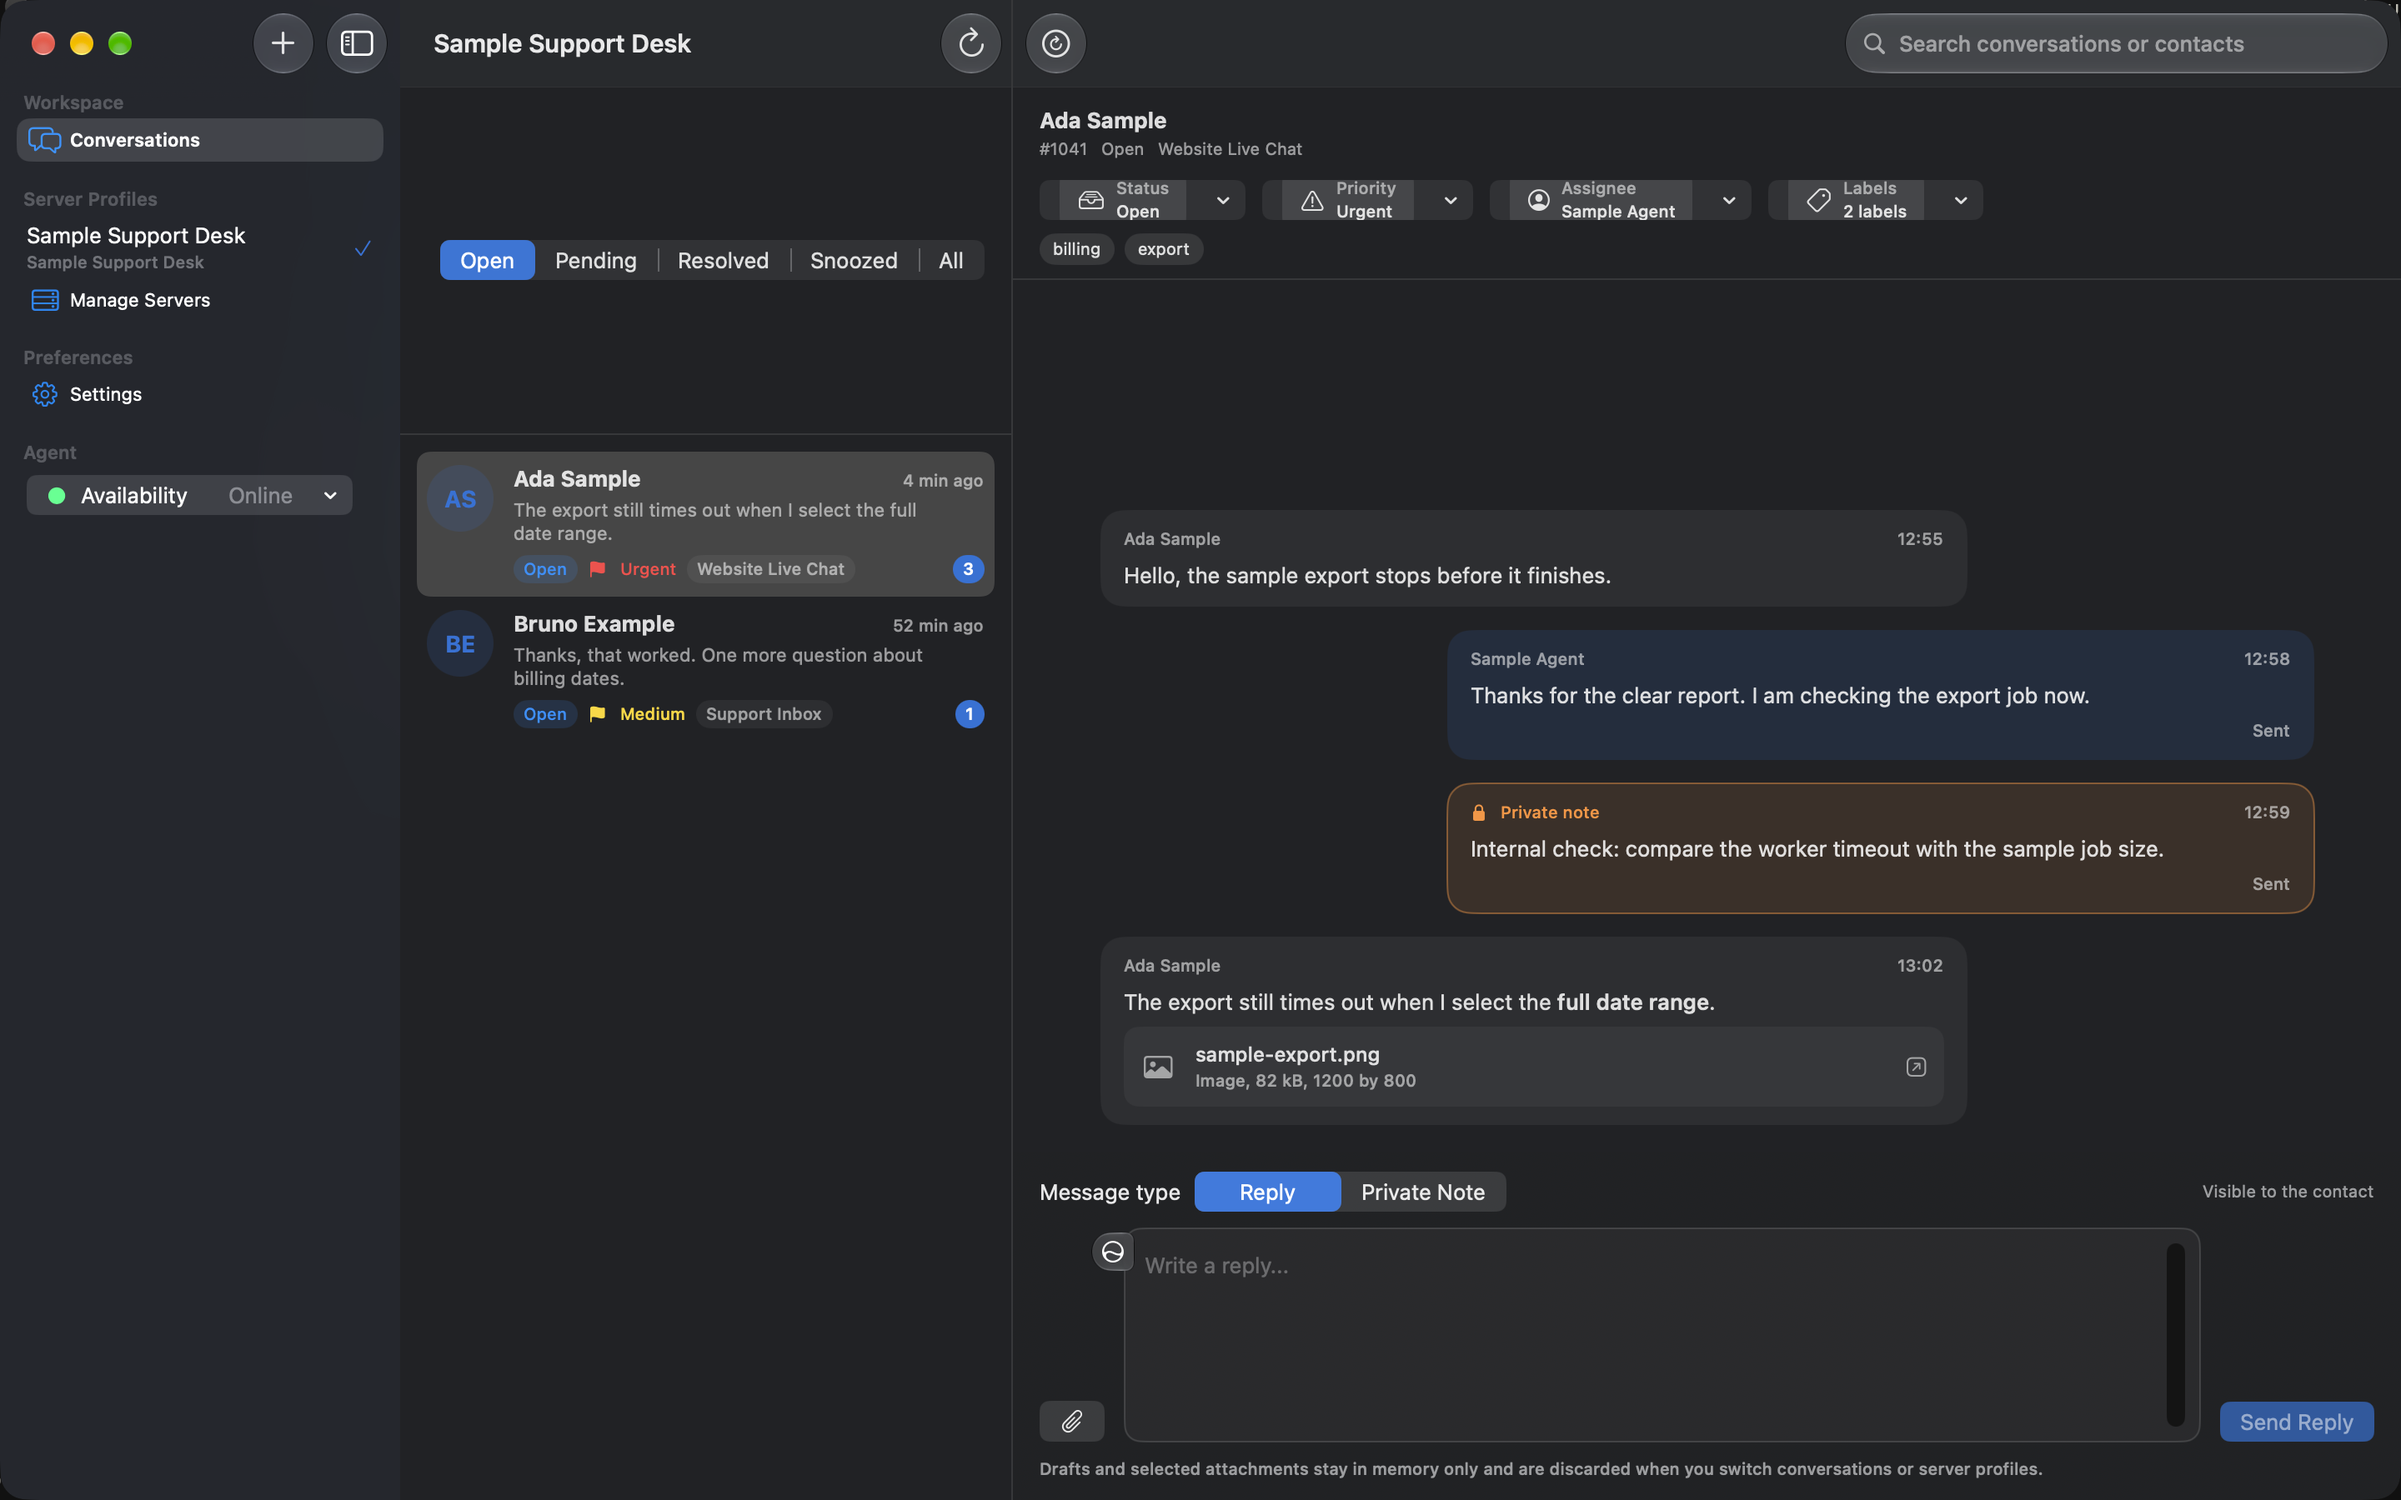
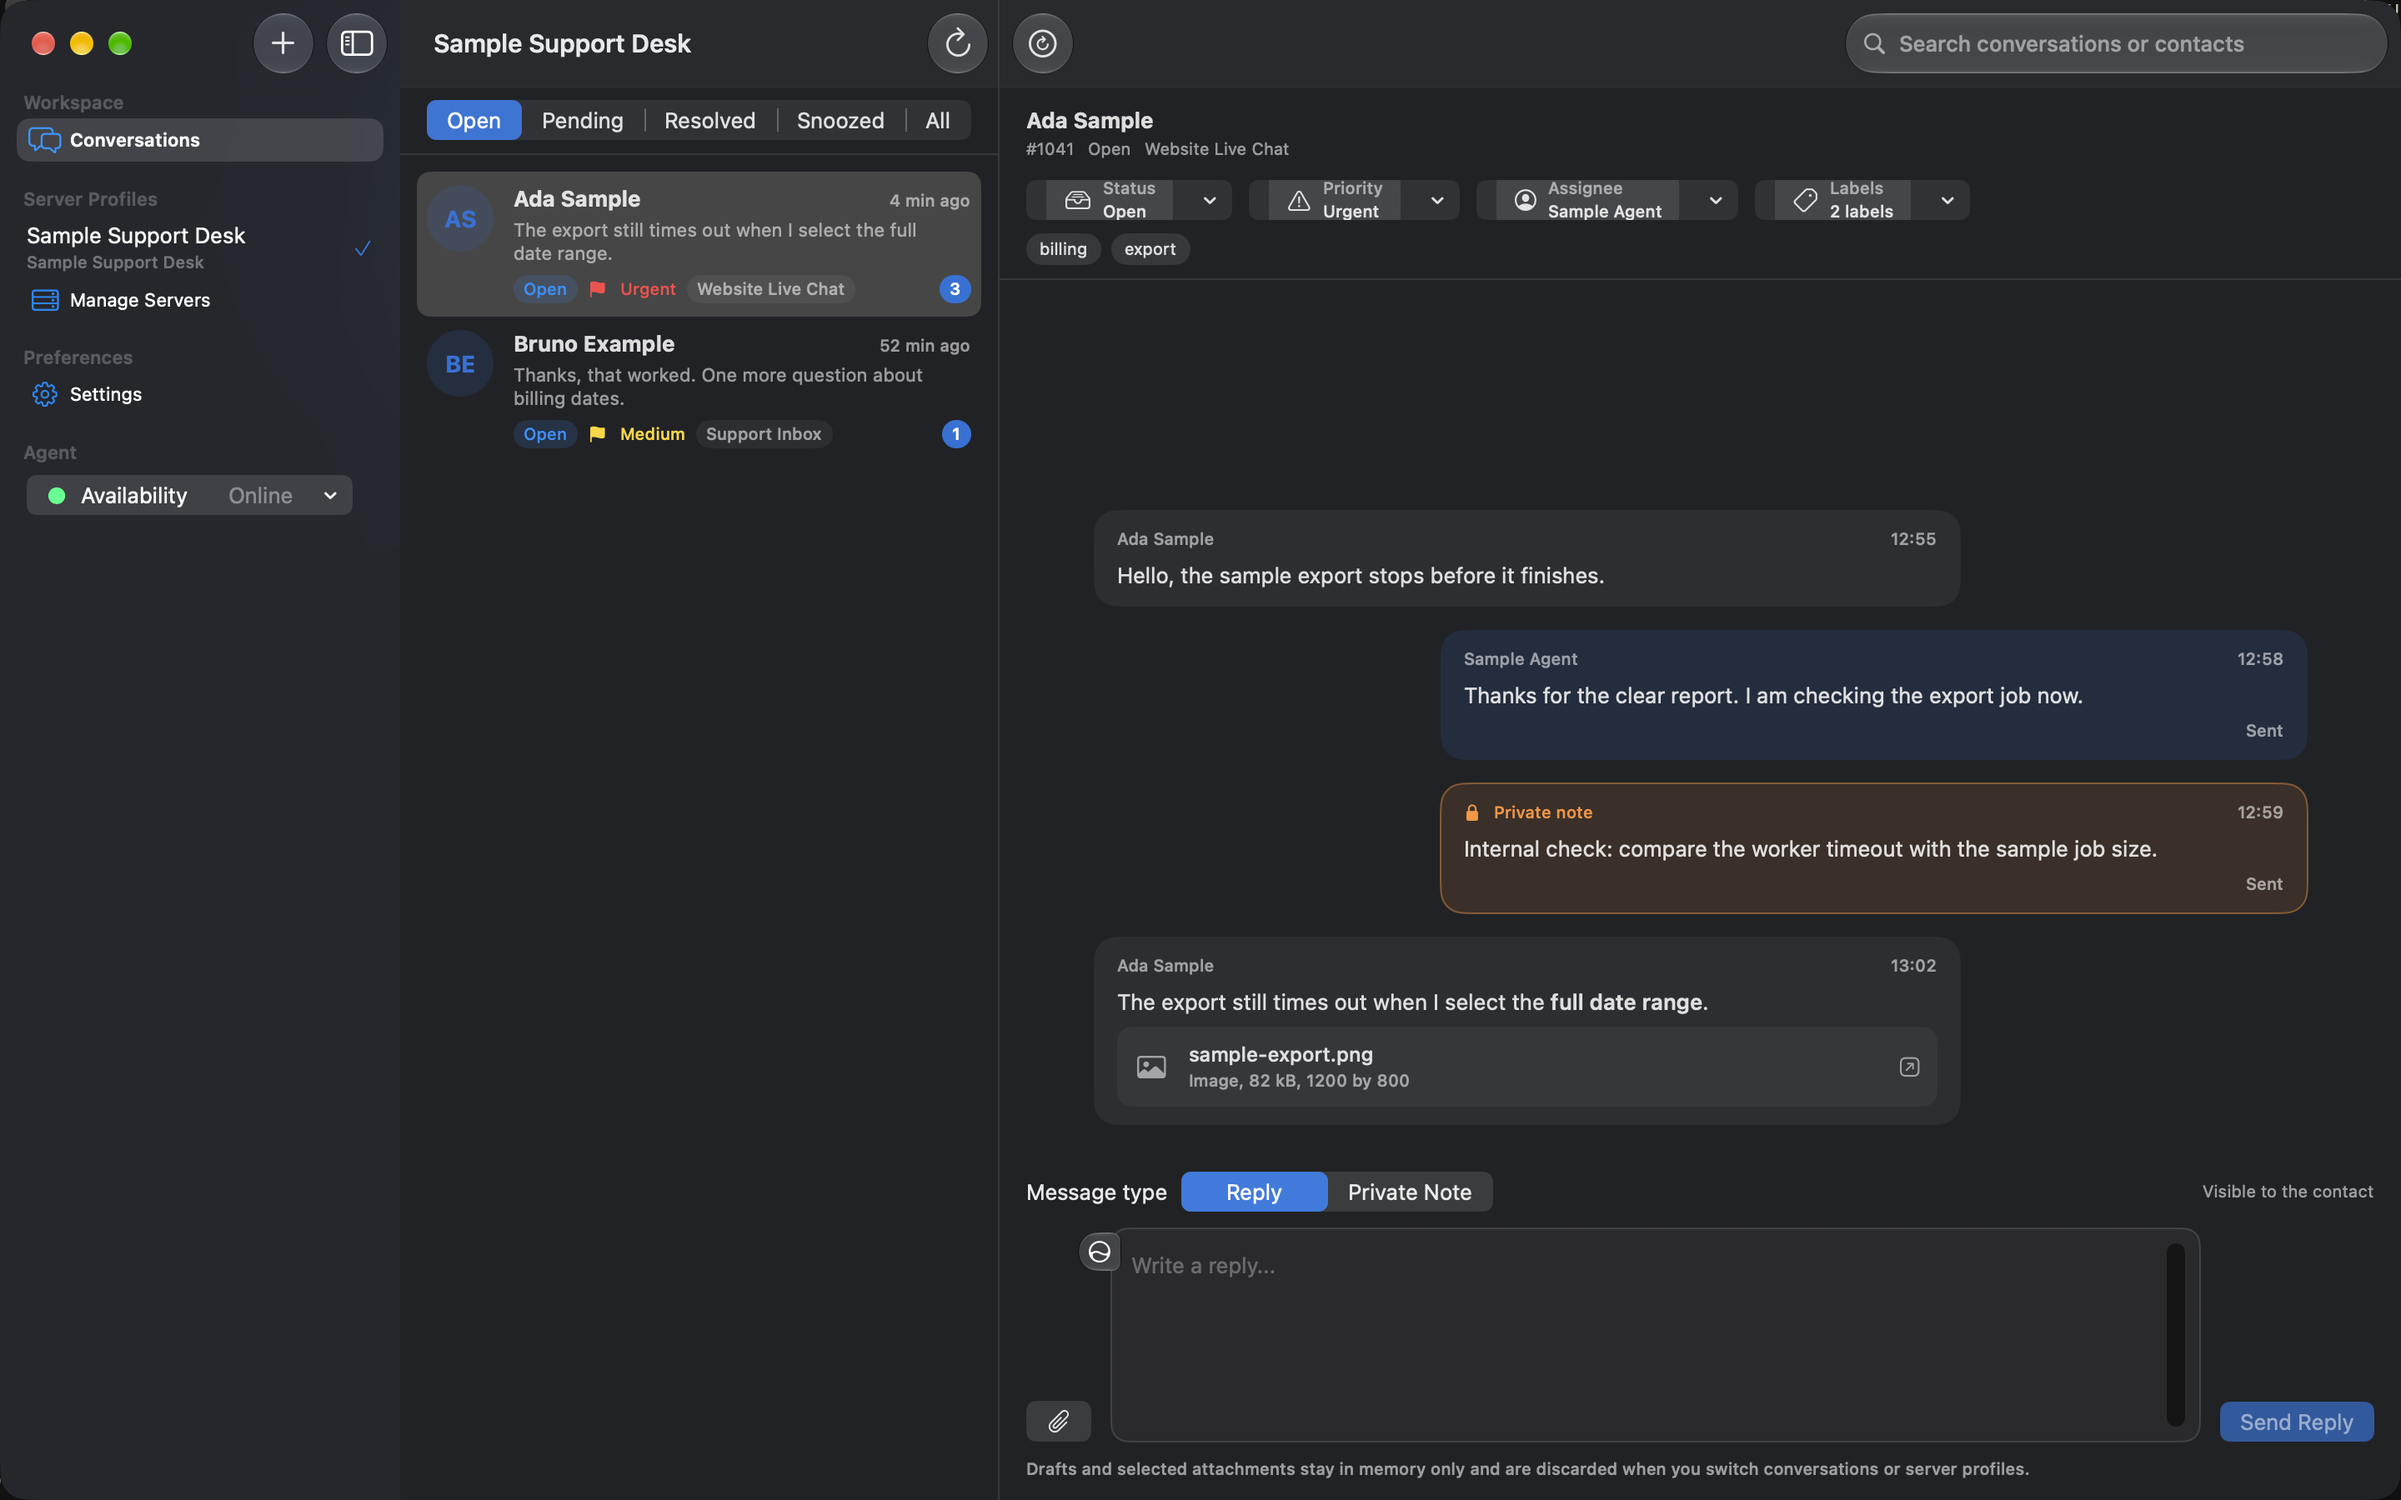
fix: remove the dead space above the macOS conversation filter
The conversation list column carried a band of empty space above and below the
status filter, about 92 points each side, with the 24 point control centred
inside it. It was visible in the Mac App Store screenshot.

Picker("Status Filter", selection:) carries a label. macOS reserves vertical
space for a Picker's label even under the segmented style and centres the
control within that reservation. The label is never drawn, so the space looked
like an unexplained gap. labelsHidden removes the reservation.

VoiceOver is unaffected. The control still reports "Status Filter, Filter
conversations by status", read back from the running app rather than assumed,
because the accessibilityLabel is applied separately.

Five rebuilds ruled out searchable, flexible layout, safeAreaInset,
navigationTitle, toolbar, listStyle and fixedSize, none of which moved the
measurement by a single point. Reasoning about the hierarchy was consistently
wrong and the accessibility tree gave precise numbers without ever naming the
culprit, because SwiftUI's internal containers are not exposed there. Giving
the picker and its padded container different background colours answered it in
one build: the Picker's own bounds filled the entire band.

The Mac screenshot is recaptured without the gap, and the README records the
dead ends so the next person does not repeat them.

diff --git a/WootDesk/Features/Conversations/ConversationListView.swift b/WootDesk/Features/Conversations/ConversationListView.swift
@@ -58,6 +58,13 @@ public struct ConversationListView: View {
     public var body: some View {
         VStack(spacing: 0) {
             filterPicker
+                // The Picker carries the label "Status Filter". macOS reserves
+                // vertical space for a Picker's label even under the segmented
+                // style and centres the control inside it, which left about 90
+                // points of dead space above and below the filter. The label is
+                // never drawn, so hiding it costs nothing visually, and
+                // VoiceOver still reads the accessibilityLabel below.
+                .labelsHidden()
                 .padding(.horizontal)
                 .padding(.vertical, 8)
 

diff --git a/docs/screenshots/README.md b/docs/screenshots/README.md
@@ -71,87 +71,37 @@ and only the list one carries the Command R shortcut.
 The detail action now uses `arrow.clockwise.circle`, so the two are
 distinguishable.
 
-### Still outstanding: dead space in the macOS conversation list
+### Fixed: dead space in the macOS conversation list
 
-The conversation list column has a band of empty space above and below the
-status filter on macOS. It is cosmetic, visible in the current capture, and not
-yet diagnosed. What is known, measured through the accessibility API with the
-window at 1440 x 900 points:
+The conversation list column had a band of empty space above and below the
+status filter, roughly 92 points on each side, with the 24 point control
+centred inside it.
 
-| Element | Position |
+**Cause.** `Picker("Status Filter", selection:)` carries a label. macOS
+reserves vertical space for a Picker's label even under `.segmented` style and
+centres the control within that reservation. The label is never drawn, so the
+space was invisible and unexplained. `.labelsHidden()` removes the reservation.
+VoiceOver is unaffected: the control still reports
+"Status Filter, Filter conversations by status", read from the running app.
+
+**How it was found.** Reasoning about the view hierarchy was consistently
+wrong, and five rebuilds ruled out plausible-sounding causes without getting
+closer:
+
+| Ruled out | Evidence |
 |---|---|
-| Column content begins | y = 112, below the toolbar |
-| Status filter | y = 204, height 24 |
-| List scroll area | y = 321, extending to the window bottom |
+| `.searchable` | Moved onto the list, then removed entirely. Identical measurements both times |
+| Flexible layout | Gaps stayed at exactly 92 and 93 points with the window at 700 and 1200 points tall |
+| `.safeAreaInset` | The one omitting `spacing: 0` wraps `profileRecoveryState`, which this view never goes through |
+| `.navigationTitle` | Removed, no change |
+| `.toolbar` | Removed, verified gone from the screenshot, no change |
+| `.listStyle(.inset)` | Switched to `.plain`, no change |
+| `.fixedSize(vertical:)` | No change, which proved the large height was the Picker's *ideal* size rather than expansion |
 
-That leaves **92 points above the filter and 93 points below it**, almost
-perfectly symmetric, as though the 24 point control is centred in a 208 point
-band.
+What actually found it was giving the picker and its padded container different
+background colours and looking at the result. The Picker's own bounds filled
+the whole band immediately and unambiguously.
 
-Ruled out so far:
-
-- **`.searchable`.** Moving it from the `VStack` onto the list changed nothing,
-  and removing it entirely changed nothing. The measurements were identical in
-  all three builds.
-- **Flexible layout.** The gaps stay at exactly 92 and 93 points with the
-  window at 700 and at 1200 points tall, so this is fixed spacing rather than
-  a stack distributing free space.
-- **The `safeAreaInset` in `profileRecoveryState`.** That inset omits
-  `spacing: 0` and would contribute default spacing, but it wraps a different
-  view that the conversation list never goes through.
-
-The `VStack(spacing: 0)` in `ConversationListView.body` applies only
-`.padding(.vertical, 8)` around the filter, so the space is being introduced by
-something outside that view, most likely the surrounding `NavigationSplitView`
-column or a modifier applied to it in `WootDeskApp`.
-
-## Uploaded to App Store Connect
-
-`iphone-6.5/01-conversation-list.png` is uploaded against iOS version 1.0 and
-build 24. The listing shows "1 of 10 Screenshots".
-
-## Known gaps
-
-* Only one 6.5 inch screenshot is uploaded. The conversation detail and the
-  triage menu still need capturing at 1284 x 2778. Driving taps on the
-  simulator needs simulator device access to be granted from the panel; the
-  request went unanswered, so only the launch screen could be captured
-  unattended.
-* The iPad set shows the empty detail column, for the same reason.
-* No macOS screenshots are captured yet. macOS App Store listings need their own
-  set at 2880 x 1800 or another accepted Mac size.
-* The set has not been reviewed or ordered for the store listing. Ordering,
-  captions, and any framing are the release owner's decision.
-
-## Regenerating
-
-Build once for the simulator, then install and launch with the invented-data
-argument. The simulator is sandboxed away from external volumes, so capture to a
-local path and copy the file into the repository afterwards.
-
-```bash
-xcodebuild build -project WootDesk.xcodeproj -scheme WootDesk \
-  -destination "generic/platform=iOS Simulator" -configuration Debug \
-  -derivedDataPath build/sim \
-  CODE_SIGN_IDENTITY="" CODE_SIGNING_REQUIRED=NO CODE_SIGNING_ALLOWED=NO
-```
-
-```bash
-xcrun simctl boot "iPhone 17 Pro Max"
-```
-
-```bash
-xcrun simctl install booted build/sim/Build/Products/Debug-iphonesimulator/WootDesk.app
-```
-
-```bash
-xcrun simctl launch booted dev.n85.wootdesk --uitesting-conversations
-```
-
-```bash
-xcrun simctl io booted screenshot --type=png ~/Desktop/wootdesk-shot.png
-```
-
-Never capture a screenshot from a build connected to a real Chatwoot server. A
-store screenshot is published, and a real conversation in one would disclose
-customer data.
+The lesson worth keeping: measuring the accessibility tree gave precise numbers
+but never identified the culprit, because SwiftUI's internal containers are not
+exposed there. Colouring the suspect view answered it in one build.
